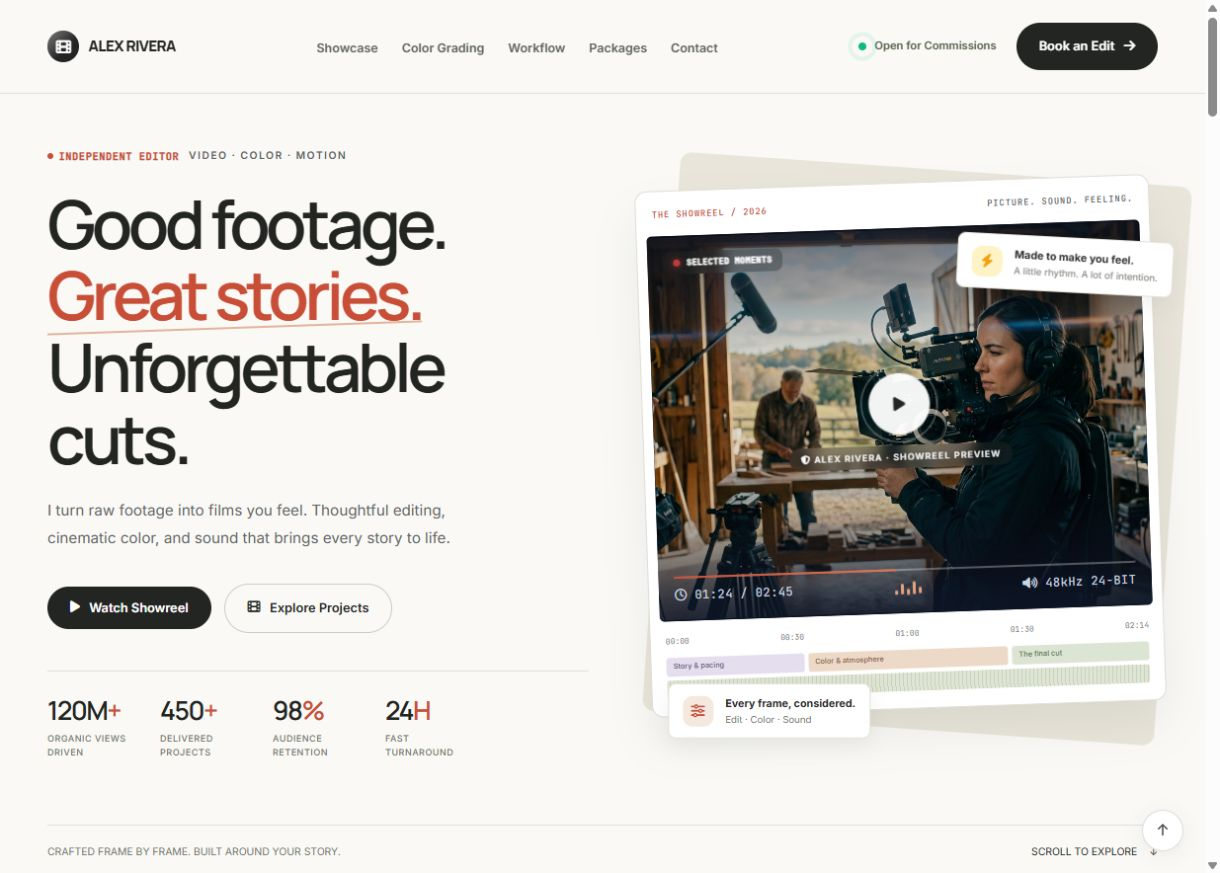
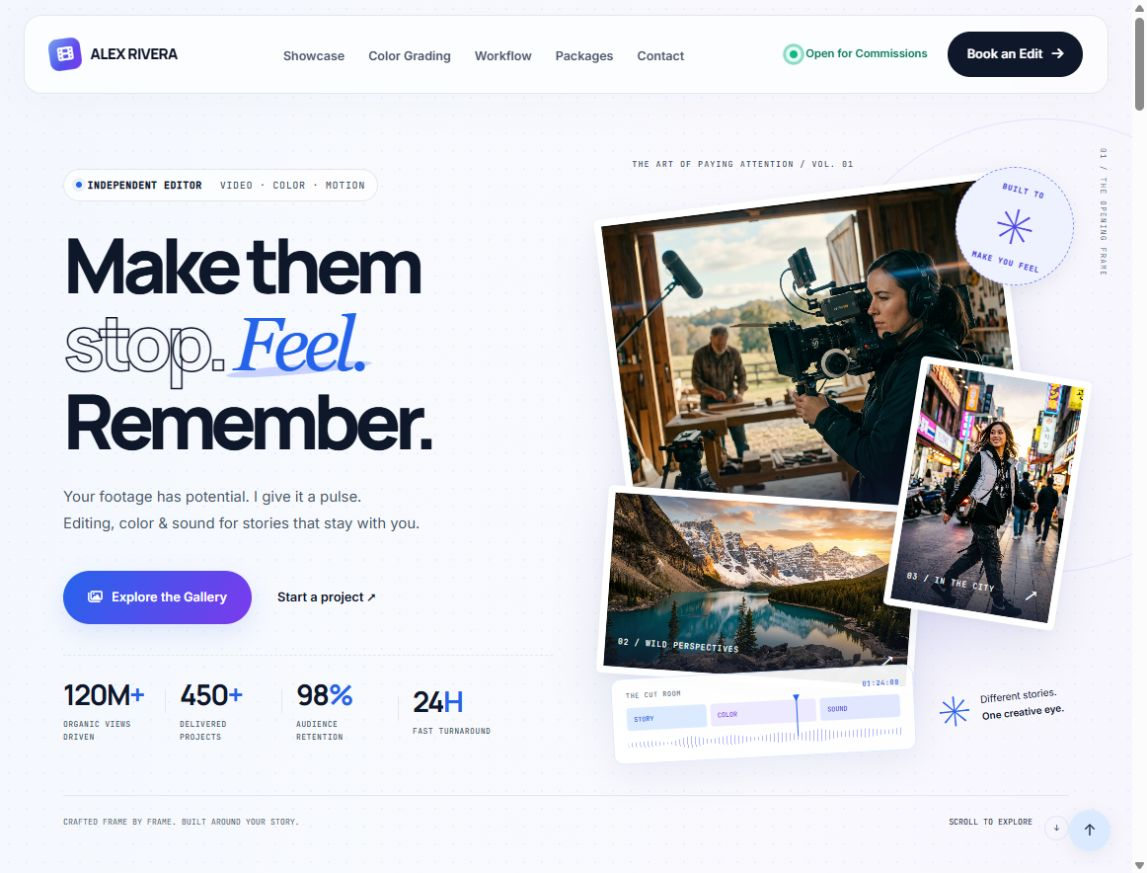
Polish studio UI and add filtered project preview navigation

diff --git a/css/studio-polish.css b/css/studio-polish.css
@@ -1,0 +1,101 @@
+/* A more expressive studio presentation, in the existing blue/purple palette. */
+.navbar-wrapper { top: 15px; padding-inline: 24px; }
+.navbar { max-width: 1392px; padding: 16px 25px; border: 1px solid #e2e8f0; border-radius: 18px; background: #fcfdfef0; box-shadow: 0 8px 40px #0f172a06; }
+.navbar .btn-primary { padding: 13px 20px; }
+.hero-section { padding-top: 167px; background-image: radial-gradient(#6366f112 .8px, transparent .8px); background-size: 18px 18px; }
+.hero-section::after { content: '01 / THE OPENING FRAME'; position: absolute; right: 24px; top: 150px; writing-mode: vertical-rl; font: .48rem var(--font-mono); letter-spacing: .17em; color: #64748b; }
+.hero-title { letter-spacing: -.08em; }
+.hero-title .highlight-gradient { color: #2563eb; -webkit-text-fill-color: #2563eb; }
+.hero-title .highlight-gradient::after { height: 13%; bottom: 8px; background: #c7d2fe; border-radius: 50%; transform: rotate(-5deg); }
+.hero-pill { width: fit-content; padding: 9px 12px; background: #ffffffb0; border: 1px solid #e2e8f0; border-radius: 999px; }
+.hero-cta-group .btn-primary { background: var(--accent-gradient); box-shadow: 0 8px 24px #2563eb22; border: 0; }
+.hero-cta-group .btn-primary:hover { background: linear-gradient(120deg, #1d4ed8, #6d28d9); box-shadow: 0 12px 28px #2563eb30; }
+.hero-cta-group .btn-secondary { padding-inline: 14px; }
+.hero-stats-row { border-top-style: dashed; }
+.stat-item { position: relative; }
+.stat-item + .stat-item::before { content: ''; position: absolute; left: -15px; height: 24px; top: 10px; width: 1px; background: #e2e8f0; }
+.image-composition { height: 590px; }
+.image-composition::before { background: radial-gradient(ellipse, #dbeafe 0%, #ede9fe90 50%, #fcfdfe00 72%); border: 0; }
+.image-tile { border-width: 7px; box-shadow: 0 25px 50px #1e3a8a18, 0 3px 10px #0f172a0a; }
+.image-tile-main { top: 30px; height: 335px; }
+.image-tile-landscape { bottom: 65px; height: 190px; }
+.image-tile-portrait { top: 205px; height: 255px; }
+.composition-note { bottom: 4px; right: 5px; }
+.creative-seal { background: #eef2ff; border: 1px dashed #818cf8; color: #4f46e5; }
+.hero-cut-note { position: absolute; bottom: -10px; left: 10px; width: 65%; padding: 12px 14px; border: 1px solid #dbeafe; background: #ffffffed; border-radius: 10px; box-shadow: 0 12px 35px #1e3a8a12; transform: rotate(-3deg); z-index: 6; display: flex; flex-wrap: wrap; justify-content: space-between; gap: 8px; }
+.hero-cut-note > span { font: 500 .43rem var(--font-mono); letter-spacing: .08em; color: #64748b; }
+.hero-cut-note > span:nth-child(2) { color: #2563eb; }
+.cut-note-track { display: flex; gap: 4px; width: 100%; position: relative; }
+.cut-note-track b { flex: 1; padding: 7px; border-radius: 3px; background: #dbeafe; font: 500 .42rem var(--font-mono); color: #2563eb; }
+.cut-note-track b:nth-child(2) { background: #ede9fe; color: #7c3aed; flex: 1.4; }
+.cut-note-track b:nth-child(3) { background: #e0e7ff; color: #4f46e5; }
+.cut-note-track i { position: absolute; width: 1px; left: 62%; top: -5px; bottom: -14px; background: #2563eb; }
+.cut-note-track i::before { content: ''; position: absolute; top: 0; left: -3px; width: 7px; height: 7px; background: #2563eb; clip-path: polygon(0 0,100% 0,50% 100%); }
+.cut-note-wave { width: 100%; height: 13px; background: repeating-linear-gradient(90deg, #818cf8 0 1px, transparent 1px 4px); border-radius: 3px; opacity: .6; clip-path: polygon(0 35%,8% 25%,15% 45%,23% 0,30% 35%,38% 10%,47% 40%,55% 10%,62% 25%,70% 0,78% 30%,87% 15%,95% 35%,100% 20%,100% 80%,95% 65%,87% 85%,78% 70%,70% 100%,62% 75%,55% 90%,47% 60%,38% 90%,30% 65%,23% 100%,15% 55%,8% 75%,0 65%); }
+.hero-footnote { margin-top: 48px; }
+.ticker-strip-section { margin-top: 0; background: #f6f8fb; border-color: #e2e8f0; }
+.software-pill { padding: 9px 12px; border: 1px solid #e2e8f0; border-radius: 8px; background: #ffffffb0; font-size: .58rem; }
+.software-pill:hover { background: #fff; border-color: #c7d2fe; }
+.software-icon-badge { color: #6366f1 !important; }
+.studio-note { padding: 85px 0 0; }
+.studio-note-grid { display: grid; grid-template-columns: .65fr 1.35fr; gap: 65px; align-items: center; }
+.studio-note-label { display: flex; flex-direction: column; align-items: flex-start; gap: 20px; }
+.studio-note-label .section-tag { margin: 0; font-size: .52rem; }
+.note-asterisk { font-size: 6rem; line-height: 1; color: #4f46e5; transform: rotate(-12deg); }
+.note-caption { font: .47rem/1.9 var(--font-mono); letter-spacing: .13em; color: #64748b; }
+.studio-note h2 { font: 600 clamp(2rem, 3.5vw, 3.5rem)/1.18 var(--font-display); letter-spacing: -.06em; color: #0f172a; }
+.studio-note h2 span { font-family: Georgia, serif; font-weight: 400; font-style: italic; color: #4f46e5; }
+.studio-note p { max-width: 470px; margin-top: 22px; font-size: .83rem; color: #64748b; line-height: 1.9; }
+.note-link { display: inline-flex; gap: 25px; align-items: center; font-size: .72rem; font-weight: 600; margin-top: 22px; }
+.note-link span { display: grid; place-items: center; width: 30px; height: 30px; border: 1px solid #c7d2fe; border-radius: 50%; transition: background .2s, transform .2s; }
+.note-link:hover span { background: #eef2ff; transform: rotate(45deg); }
+.portfolio-section { margin-top: 70px; border-top: 1px solid #e2e8f0; padding-top: 85px; }
+.portfolio-section .section-header { position: relative; }
+.portfolio-section .section-header::after { content: 'SELECTED\A FRAMES / 06'; white-space: pre; position: absolute; right: 0; top: 15px; text-align: right; font: .54rem/1.9 var(--font-mono); letter-spacing: .1em; color: #64748b; }
+.portfolio-section .section-desc { max-width: 490px; }
+.filter-btn { background: #fff; }
+.filter-btn.active { background: #eef2ff; color: #3730a3; border-color: #a5b4fc; }
+.filter-btn.active .filter-badge-count { background: #4f46e5; color: #fff; }
+.project-card { border: 1px solid #e2e8f0; padding: 10px; border-radius: 19px; background: #fff; box-shadow: 0 6px 24px #0f172a03; }
+.project-card, .project-info-body { min-width: 0; }
+.project-card.card-span-5 { padding-top: 10px; margin-top: 85px; }
+.project-card:hover { border-color: #c7d2fe; box-shadow: 0 18px 45px #1e3a8a0a; }
+.project-info-body { padding: 22px 12px 12px; }
+.project-title { font-size: 1.1rem; letter-spacing: -.04em; }
+.project-category-tag { color: #4f46e5; }
+.project-desc { font-size: .73rem; }
+.project-image { border-radius: 11px; }
+.frame-index { background: #ffffffec; color: #334155; border-color: #fff; border-radius: 5px; }
+.image-view-hint { background: #ffffffed; color: #2563eb; border: 1px solid #ffffff50; backdrop-filter: blur(12px); }
+.view-edit-link { color: #2563eb; }
+.edit-tag { background: #f1f5f9; }
+.process-grid { counter-reset: step; }
+.process-card { background: #fff; box-shadow: 0 5px 20px #0f172a03; }
+.process-card::after { content: '↗'; position: absolute; right: 22px; bottom: 20px; font-size: 1.2rem; color: #a5b4fc; transition: transform .25s; }
+.process-card:hover::after { transform: translate(3px,-3px); color: #4f46e5; }
+.process-step-num { color: #e0e7ff; }
+.process-card:hover { background: #f5f7ff; }
+.pricing-section { background: linear-gradient(180deg, #f6f8fb, #f8faff); }
+.pricing-card { border-radius: 20px; background: #fff; }
+.pricing-card.featured { background: linear-gradient(160deg, #eff6ff, #f5f3ff); border-color: #818cf8; box-shadow: 0 14px 45px #4f46e50b; }
+.contact-card-box { background: linear-gradient(125deg, #eff6ff 0%, #f5f3ff 65%, #eef2ff 100%); border: 1px solid #dbeafe; }
+.contact-info-col .section-title { letter-spacing: -.065em; }
+.contact-card-box::after { content: '↗'; position: absolute; left: 33%; bottom: -30px; font-size: 14rem; line-height: 1; color: #6366f10b; pointer-events: none; }
+.contact-form { position: relative; z-index: 1; }
+.project-browser { display: flex; align-items: center; justify-content: space-between; gap: 15px; padding: 18px 28px; border-bottom: 1px solid #e2e8f0; }
+.project-browser[hidden] { display: none; }
+.project-browser button { display: flex; align-items: center; gap: 10px; background: #eff6ff; border: 1px solid #dbeafe; border-radius: 999px; padding: 10px 16px; font: 600 .68rem var(--font-body); color: #2563eb; }
+.project-browser button:hover { background: #dbeafe; }
+#project-position { font: .6rem var(--font-mono); color: #64748b; }
+@media (max-width: 1150px) { .navbar-wrapper { padding-inline: 18px; } .navbar { padding-inline: 20px; } .btn-status-pill { display: none; } .image-composition { height: 540px; } .image-tile-main { height: 300px; } .image-tile-landscape { height: 175px; bottom: 70px; } .image-tile-portrait { height: 225px; top: 180px; } .software-pill-row { justify-content: center; gap: 12px; } }
+@media (max-width: 768px) {
+  .navbar-wrapper { top: 10px; padding-inline: 12px; } .navbar { padding: 14px 17px; border-radius: 14px; } .nav-links.is-open { top: calc(100% + 8px); left: 0; right: 0; border-radius: 14px; }
+  .hero-section { padding-top: 120px; } .hero-section::after { display: none; } .hero-pill { font-size: .43rem; padding: 8px 10px; }
+  .hero-title { font-size: clamp(3.4rem, 11.6vw, 5.2rem); } .hero-title .highlight-gradient::after { bottom: 5px; } .stat-item + .stat-item::before { left: -10px; }
+  .image-composition { height: 480px; } .image-tile-main { height: 270px; top: 20px; } .image-tile-landscape { height: 155px; bottom: 65px; } .image-tile-portrait { height: 210px; top: 160px; } .hero-cut-note { width: 63%; left: 4px; bottom: 0; padding: 10px; } .composition-note { bottom: 6px; right: 0; font-size: .48rem; }
+  .hero-footnote { margin-top: 30px; } .ticker-strip-section { margin-top: 0; } .software-pill { padding: 8px 10px; font-size: .54rem; } .software-pill-row { gap: 9px; }
+  .studio-note { padding-top: 60px; } .studio-note-grid { grid-template-columns: 1fr; gap: 28px; } .studio-note-label { flex-direction: row; align-items: center; justify-content: space-between; gap: 15px; } .note-asterisk { font-size: 3.2rem; } .note-caption { display: none; } .studio-note h2 { font-size: 2.35rem; } .studio-note p { font-size: .79rem; margin-top: 18px; }
+  .portfolio-section { margin-top: 55px; padding-top: 60px; } .portfolio-section .section-header::after { display: none; } .projects-grid { grid-template-columns: minmax(0, 1fr); } .projects-grid > .project-card { grid-column: 1 / -1; } .project-card { padding: 8px; } .project-card.card-span-5 { padding: 8px; margin-top: 0; } .project-info-body { padding: 18px 10px 10px; } .project-title { font-size: 1.05rem; } .project-top-meta, .project-footer-action { flex-wrap: wrap; gap: 10px; }
+  .project-browser { padding: 16px; gap: 8px; } .project-browser button { padding: 10px 12px; font-size: .6rem; gap: 7px; } #project-position { font-size: .52rem; }
+}
+@media (max-width: 380px) { .hero-pill { font-size: .39rem; } .image-composition { height: 430px; } .image-tile-main { height: 230px; } .image-tile-landscape { height: 140px; bottom: 65px; } .image-tile-portrait { height: 180px; top: 145px; } .hero-cut-note { width: 65%; } .composition-note { font-size: .43rem; } }

diff --git a/index.html b/index.html
@@ -18,6 +18,7 @@
   <link rel="stylesheet" href="css/style.css">
   <link rel="stylesheet" href="css/creative.css">
   <link rel="stylesheet" href="css/art-direction.css">
+  <link rel="stylesheet" href="css/studio-polish.css">
 </head>
 <body>
   <a class="skip-link" href="#portfolio">Skip to selected work</a>
@@ -133,6 +134,7 @@
     <span class="image-caption"><span>03 / IN THE CITY</span><span aria-hidden="true">↗</span></span>
   </button>
   <div class="composition-note"><span class="composition-spark" aria-hidden="true">✳</span><span>Different stories.<br><strong>One creative eye.</strong></span></div>
+  <div class="hero-cut-note" aria-hidden="true"><span>THE CUT ROOM</span><span>01:24:08</span><div class="cut-note-track"><b>STORY</b><b>COLOR</b><b>SOUND</b><i></i></div><div class="cut-note-wave"></div></div>
 </div>
 
         </div>
@@ -143,7 +145,7 @@
     <!-- =========================================================
          TOOL STACK / SOFTWARE TICKER
          ========================================================= -->
-    <section class="ticker-strip-section">
+    <section class="ticker-strip-section" aria-label="Creative software toolkit">
       <div class="container">
         <div class="ticker-label-title">
           <i class="fa-solid fa-layer-group me-1"></i> Industry Standard Production Suite
@@ -180,6 +182,13 @@
     <!-- =========================================================
          VIDEO PORTFOLIO SHOWCASE (With Watermarks & Badges)
          ========================================================= -->
+    <section class="studio-note" aria-labelledby="studio-note-title">
+      <div class="container studio-note-grid">
+        <div class="studio-note-label"><span class="section-tag">THE CREATIVE APPROACH</span><span class="note-asterisk" aria-hidden="true">✳</span><span class="note-caption">A LITTLE INSTINCT.<br>A LOT OF INTENTION.</span></div>
+        <div><h2 id="studio-note-title">More than a cut.<br><span>A feeling that stays.</span></h2><p>The right frame. The unexpected pause. The sound that changes everything. Every detail has a part to play.</p><a href="#process" class="note-link">See how it comes together <span aria-hidden="true">↗</span></a></div>
+      </div>
+    </section>
+
     <section class="portfolio-section" id="portfolio">
       <div class="container">
         
@@ -890,6 +899,7 @@
       <div><span class="story-eyebrow">BEHIND THE FRAME</span><p id="project-story-description"></p></div>
       <div><span class="story-eyebrow">CREATIVE TOOLKIT</span><div class="project-story-tags" id="project-story-tags"></div><p class="project-story-software" id="project-story-software"></p></div>
     </div>
+    <div class="project-browser" id="project-browser" hidden><button type="button" id="previous-project" aria-label="Previous project">← <span>Previous</span></button><span id="project-position" aria-live="polite"></span><button type="button" id="next-project" aria-label="Next project"><span>Next project</span> →</button></div>
     <div class="image-lightbox-footer"><span>THE DETAILS MAKE THE DIFFERENCE.</span><a id="image-original-link" target="_blank" rel="noopener">Open full image ↗</a></div>
   </div>
 </div>

diff --git a/js/main.js b/js/main.js
@@ -184,6 +184,10 @@ document.addEventListener('DOMContentLoaded', () => {
       mediaStatus.hidden = true;
       mediaStatus.textContent = '';
       const card = button.closest('.project-card');
+      const visibleProjects = [...projectCards].filter(project => project.style.display !== 'none');
+      const browser = document.getElementById('project-browser');
+      browser.hidden = !card || visibleProjects.length < 2;
+      document.getElementById('project-position').textContent = card ? `${String(visibleProjects.indexOf(card) + 1).padStart(2, '0')} / ${String(visibleProjects.length).padStart(2, '0')}` : '';
       const videoUrl = button.dataset.video || card?.dataset.video || '';
       photo.src = button.dataset.image;
       photo.alt = button.dataset.title;
@@ -211,10 +215,26 @@ document.addEventListener('DOMContentLoaded', () => {
     });
   });
   closeImage.addEventListener('click', closeLightbox);
+  const browseProject = (direction, control) => {
+    const visibleProjects = [...projectCards].filter(project => project.style.display !== 'none');
+    const current = visibleProjects.indexOf(imageTrigger?.closest('.project-card'));
+    if (current < 0 || visibleProjects.length < 2) return;
+    const next = visibleProjects[(current + direction + visibleProjects.length) % visibleProjects.length];
+    next.querySelector('.project-image.open-image-btn').click();
+    control?.focus();
+  };
+  const previousProject = document.getElementById('previous-project');
+  const nextProject = document.getElementById('next-project');
+  previousProject.addEventListener('click', () => browseProject(-1, previousProject));
+  nextProject.addEventListener('click', () => browseProject(1, nextProject));
   lightbox.addEventListener('click', event => { if (event.target === lightbox) closeLightbox(); });
   document.addEventListener('keydown', event => {
     if (lightbox.hidden) return;
     if (event.key === 'Escape') closeLightbox();
+    if (['ArrowLeft', 'ArrowRight'].includes(event.key) && projectVideo.hidden && !document.getElementById('project-browser').hidden) {
+      event.preventDefault();
+      browseProject(event.key === 'ArrowRight' ? 1 : -1, event.key === 'ArrowRight' ? nextProject : previousProject);
+    }
     if (event.key === 'Tab') {
       const focusable = [...lightbox.querySelectorAll('button, a[href], video[controls]')].filter(el => !el.hidden && el.getClientRects().length);
       const first = focusable[0], last = focusable[focusable.length - 1];
